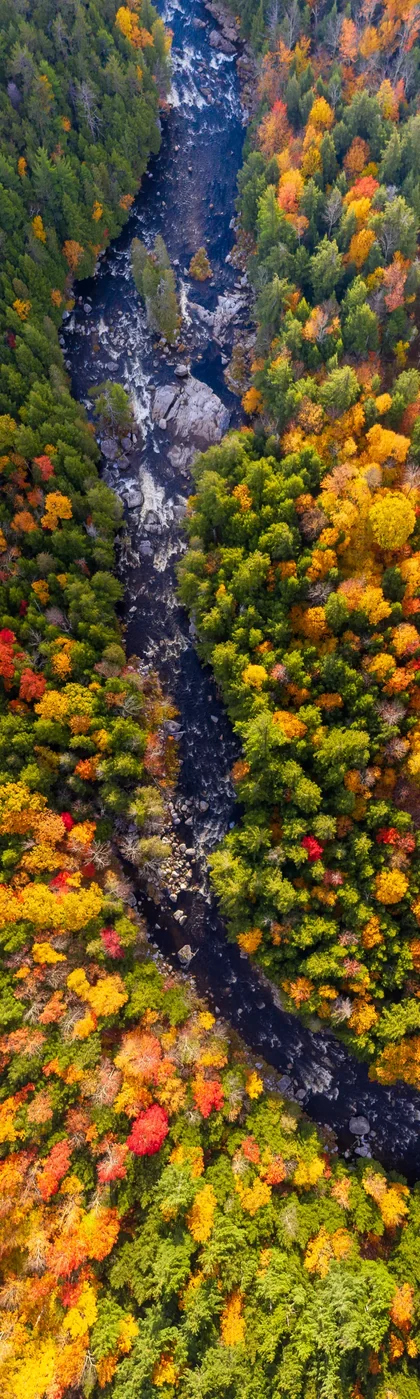
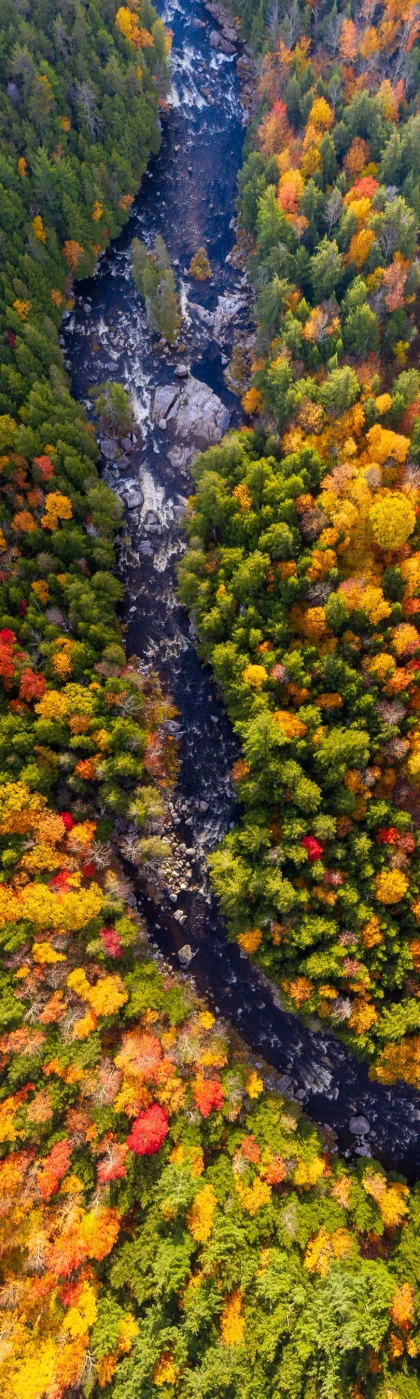
Restore quality on the two tall-column images via committed crop masters
The M&A page's sell-side image had the same defect as services.md, worse: it
renders in a md:w-1/3 column that stretches to the prose height beside it, so
object-fit cover fills the HEIGHT. Covering a 740px box at 2x needs about
2220px of width at the source's 1.5 ratio; my sizes="33vw" hint made the
browser pick 1280 and upscale it.

Two parts to the fix.

Resolution. The public copy is 2400x1600, and 1600px of height caps a crisp
render at an 800px-tall box. The full-resolution original in
source-images/heroes/ is 3864x2576, which reaches 1288px -- but that folder is
gitignored, so the Cloudflare build cannot see it. scripts/prepare-hero-masters.mjs
therefore crops once from the original and commits the result to
src/assets/hero-masters/. Those are versioned, present in CI, and never served,
since src/ is not copied to dist/. generate-hero-variants.mjs resizes from a
master when one exists and only crops inline as a fallback.

sizes. Both images now state a deliberately generous width rather than their
layout width, because with cover on a box taller than the image ratio the
requirement is driven by height. A layout-width hint is simply the wrong
number here.

Delivered at 2x desktop: M&A 800x2285 (368KB, crisp to a 1142px box),
services 700x2333 (632KB, crisp to a 1166px box). Heavier than the first
pass, which was the point -- both are still below the 698KB and 1262KB
originals, and are the only two images on the site in this layout.
[…]

diff --git a/src/content/pages/services.md b/src/content/pages/services.md
@@ -17,7 +17,7 @@ showTitle: false
 
 <div style="display: flex; gap: 2.5rem; margin: 1.5rem 0;">
   <div style="flex: 0 0 240px; min-height: 0;">
-    <img src="/heroes/iStock-1281536292-560.webp" srcset="/heroes/iStock-1281536292-280.webp 280w, /heroes/iStock-1281536292-420.webp 420w, /heroes/iStock-1281536292-560.webp 560w" sizes="240px" alt="Redrock Services" width="810" height="2699" loading="lazy" decoding="async" style="width: 100%; height: 100%; object-fit: cover; border-radius: 0.25rem;" />
+    <img src="/heroes/iStock-1281536292-700.webp" srcset="/heroes/iStock-1281536292-280.webp 280w, /heroes/iStock-1281536292-420.webp 420w, /heroes/iStock-1281536292-560.webp 560w, /heroes/iStock-1281536292-700.webp 700w" sizes="(min-width: 768px) 420px, 100vw" alt="Redrock Services" width="810" height="2699" loading="lazy" decoding="async" style="width: 100%; height: 100%; object-fit: cover; border-radius: 0.25rem;" />
   </div>
   <div style="flex: 1;">
     <p><strong>>>Mergers & Acquisitions.</strong> We advise on transactions that result in change of control ownership, including the transfer of ownership from one generation to the next, control sale of businesses to strategic or institutional owners, carve-outs/divestitures, management buyouts or the recapitalization of the company where current owners retain only a minority position in the go-forward business.</p>
